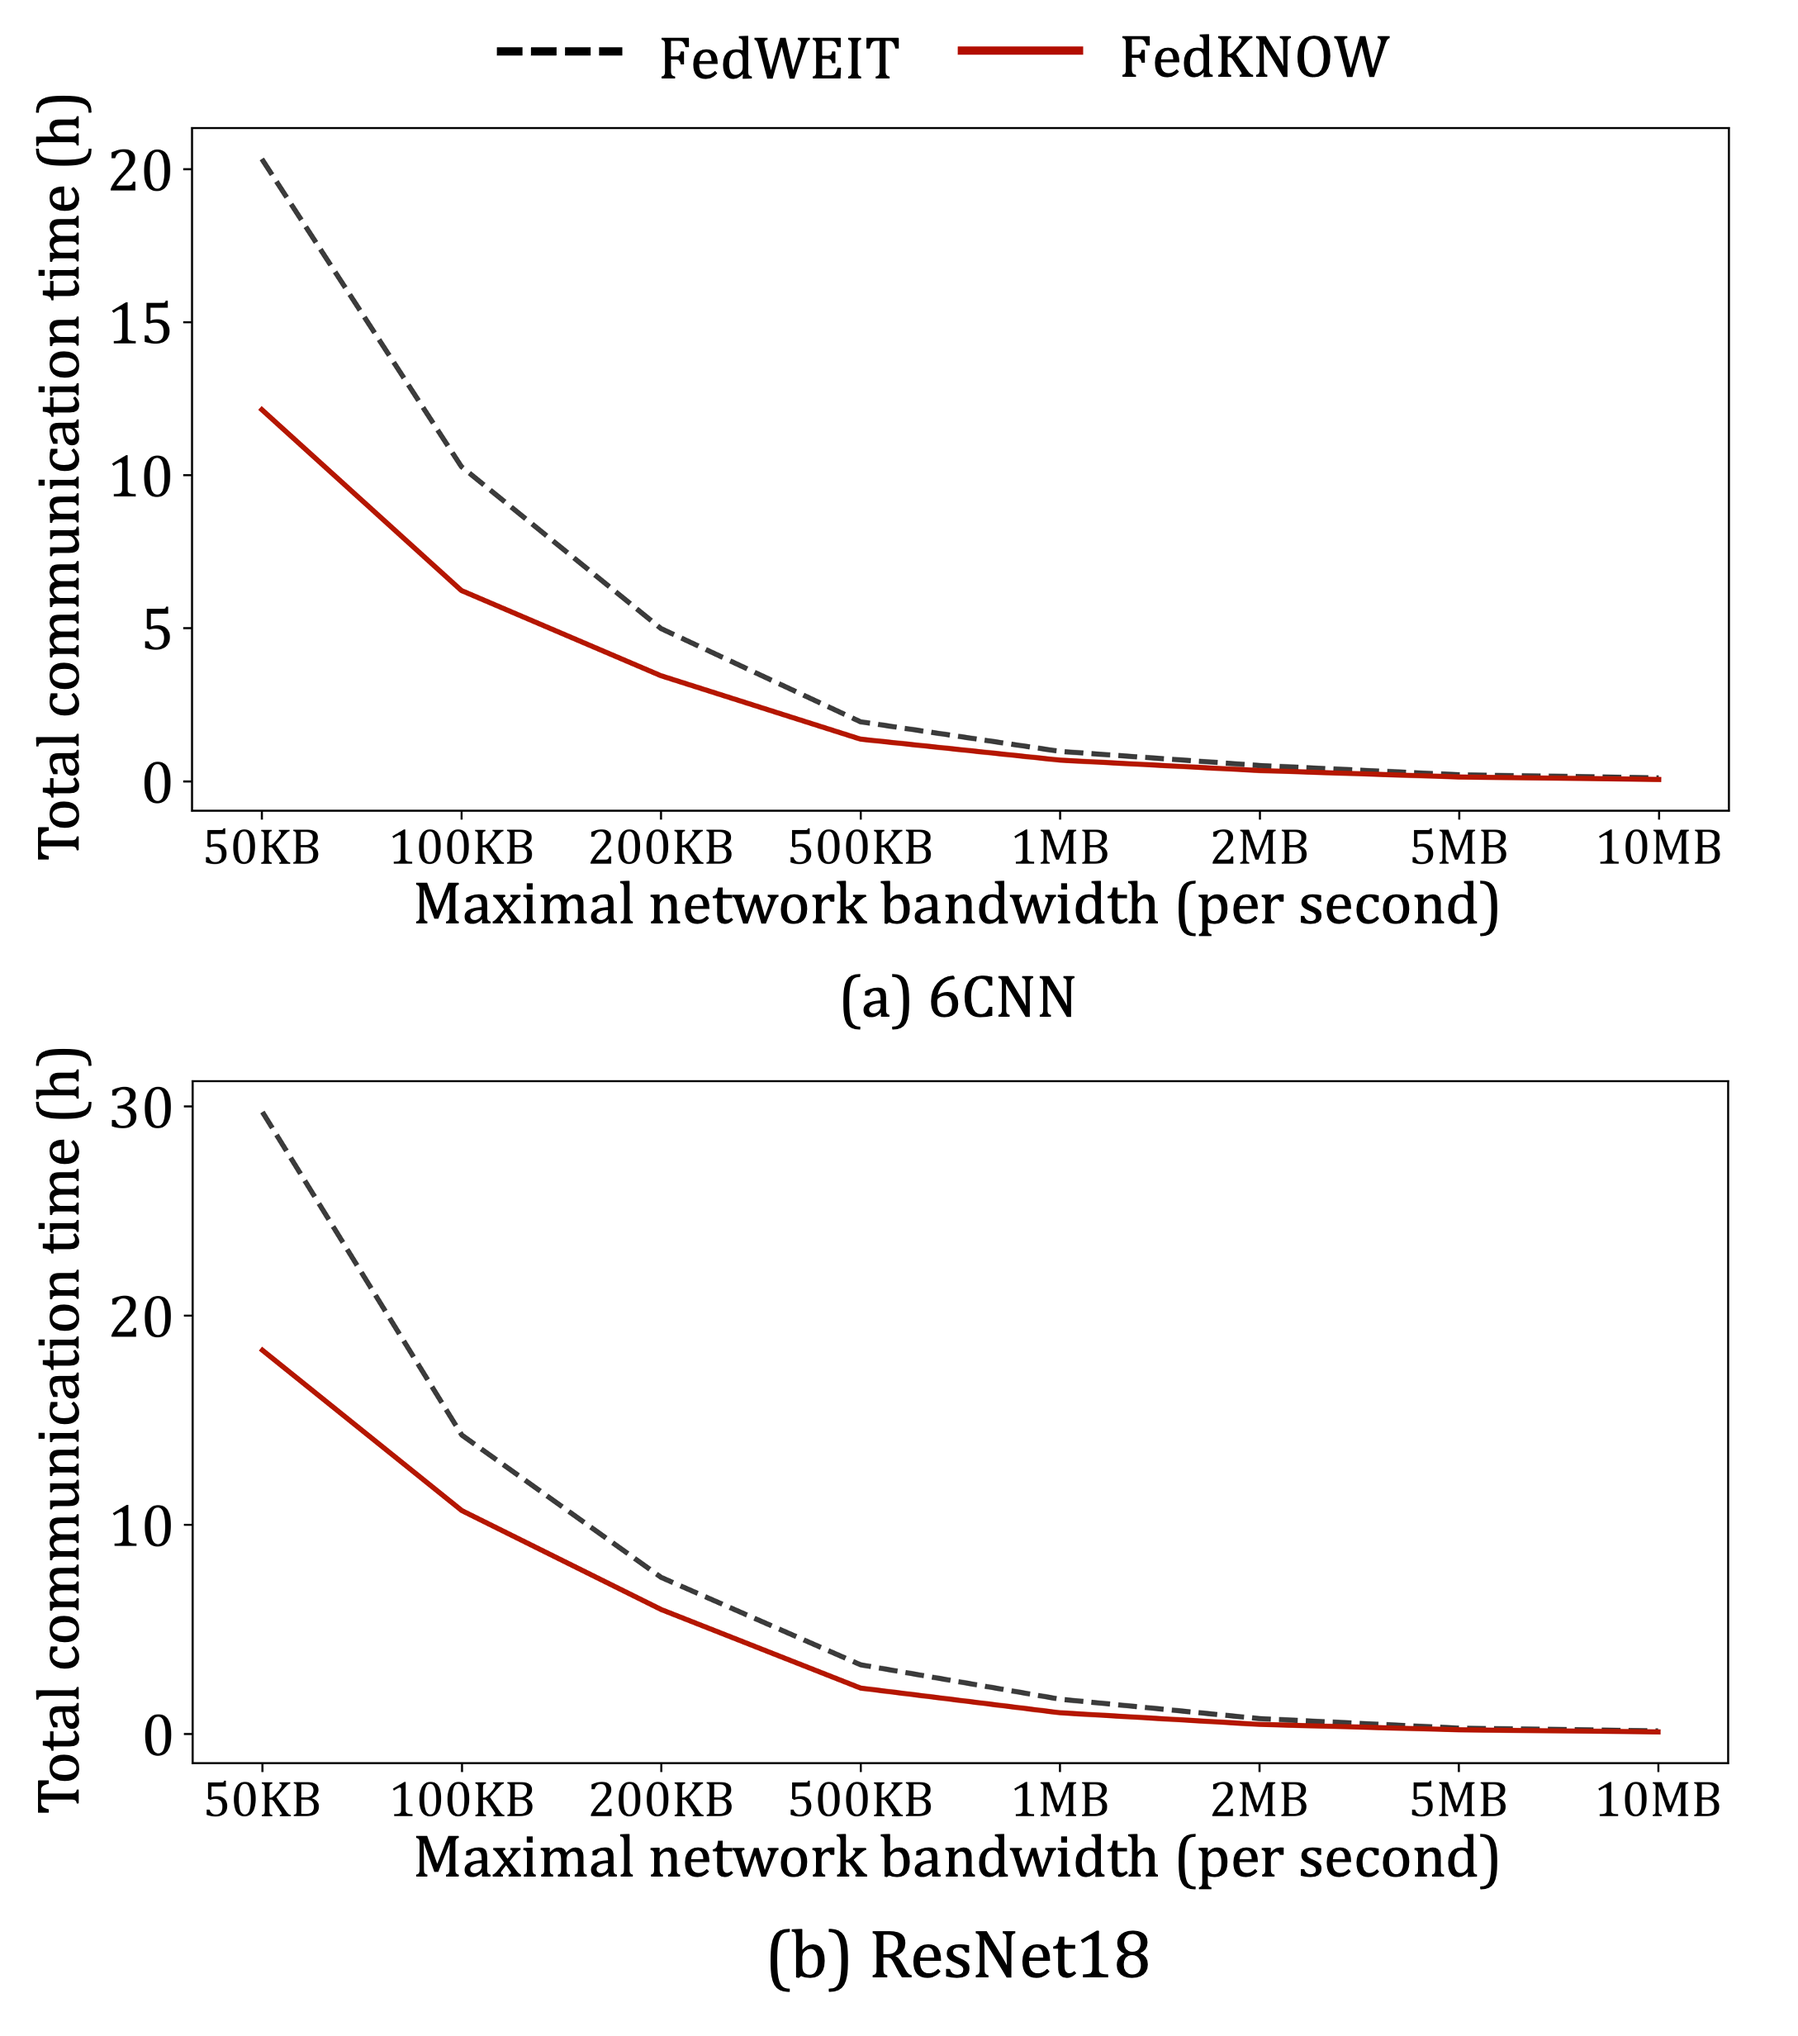
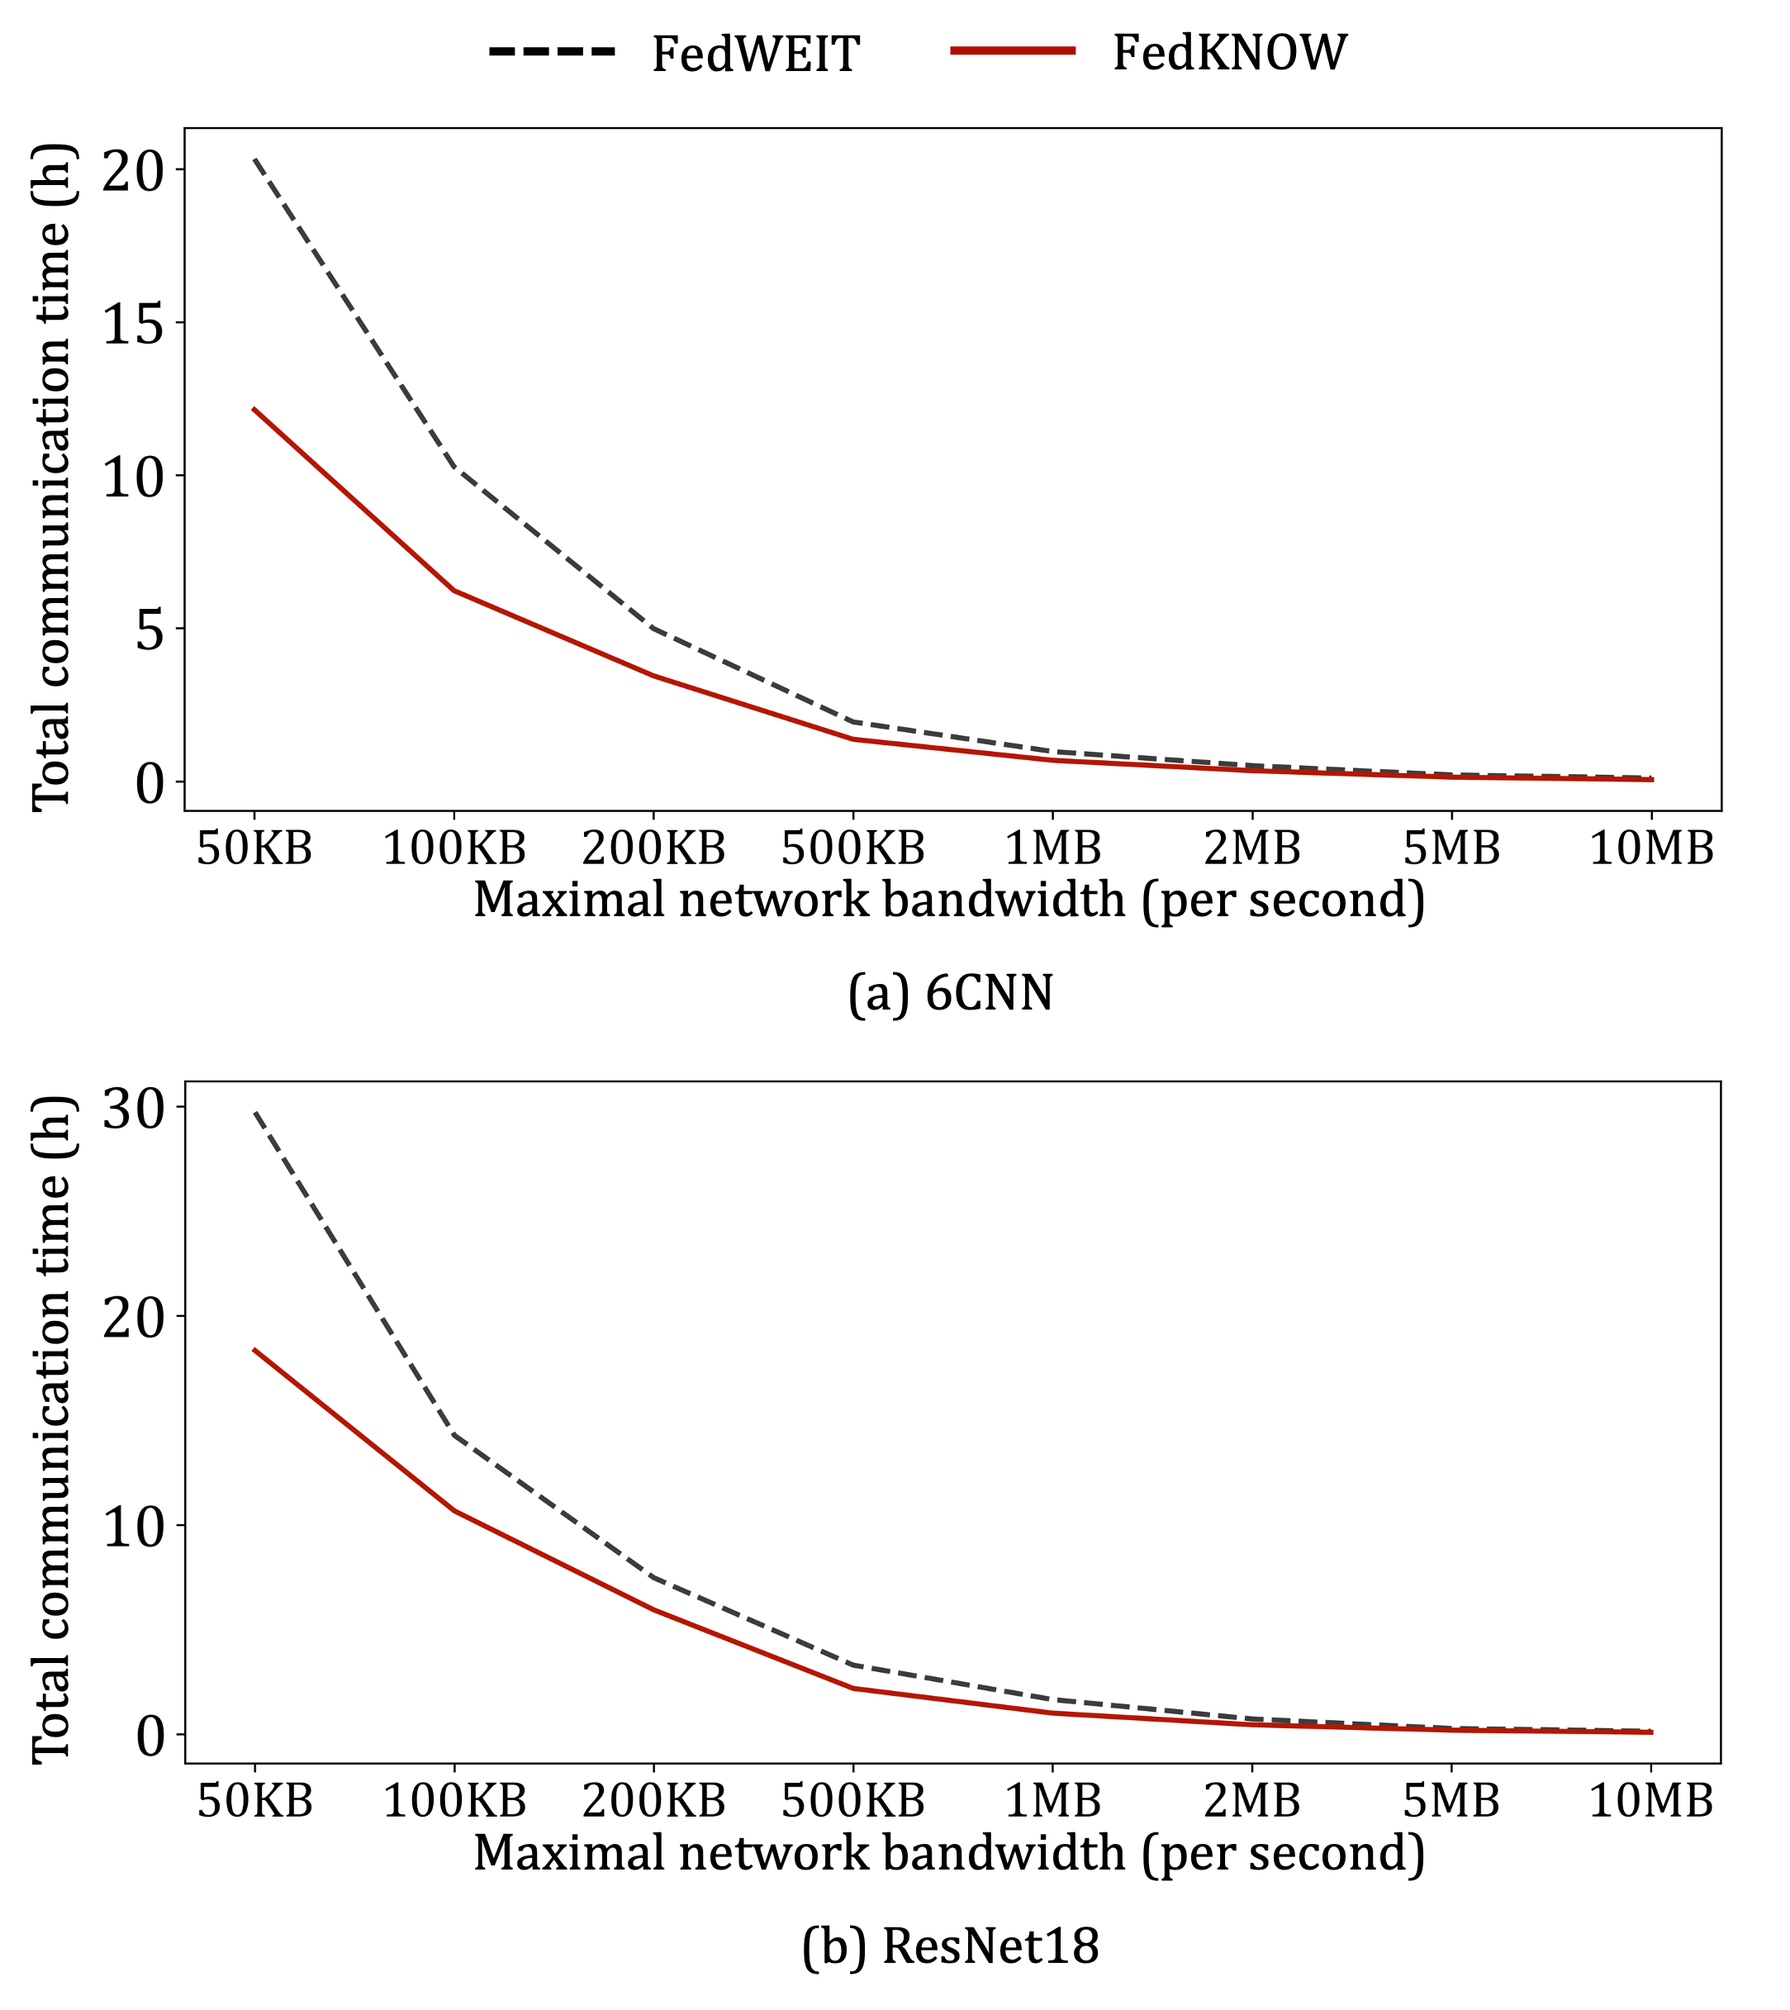
update the readme

diff --git a/README_zh-CN.md b/README_zh-CN.md
@@ -208,9 +208,13 @@
 2. **Experiment result**
 
     - **算法在最大带宽为1MB/s下在不同工作负载的通信时间(x axis for dataset and y axis for communication time)**
-        ![在这里插入图片描述](https://github.com/LINC-BIT/FedKNOW/blob/main/Experiment%20images/difctime.png)
+         
+        <img src="https://github.com/LINC-BIT/FedKNOW/blob/main/Experiment%20images/difctime.png" width="50%">
+        
     - **算法在不同网络带宽的总通信时间(x axis for bandwidth and y axis for communication time)**
-        ![在这里插入图片描述](https://github.com/LINC-BIT/FedKNOW/blob/main/Experiment%20images/difbandwidth.png)
+        
+        <img src="https://github.com/LINC-BIT/FedKNOW/blob/main/Experiment%20images/difbandwidth.png" width="50%">
+        
 ### 4.3 大规模测试
 1. **Experiment code**
 
@@ -223,9 +227,13 @@
 2. **Experiment result**
 
     - **算法在50个客户端以及100个客户端的下的准确率**(x axis for task and y axis for accuracy)
-        ![在这里插入图片描述](https://github.com/LINC-BIT/FedKNOW/blob/main/Experiment%20images/bigscale_acc.png)
+        
+        <img src="https://github.com/LINC-BIT/FedKNOW/blob/main/Experiment%20images/bigscale_acc.png" width="50%">
+        
     - **算法在50个客户端以及100个客户端的下的平均遗忘率**(x axis for task and y axis for average forgetting rate)
-        ![在这里插入图片描述](https://github.com/LINC-BIT/FedKNOW/blob/main/Experiment%20images/bigscale_fr.png)
+        
+        <img src="https://github.com/LINC-BIT/FedKNOW/blob/main/Experiment%20images/bigscale_fr.png" width="50%">
+        
 ### 4.4 多任务测试
 1. **Experiment code**
 
@@ -236,11 +244,16 @@
 2. **Experiment result**
 
     - **算法在80个任务的平均准确率**(x axis for task and y axis for accuracy)
-        ![在这里插入图片描述](https://github.com/LINC-BIT/FedKNOW/blob/main/Experiment%20images/moretask_acc.png)
+        
+        <img src="https://github.com/LINC-BIT/FedKNOW/blob/main/Experiment%20images/moretask_acc.png" width="50%">
+        
     - **算法在80个任务的平均遗忘率**(x axis for task and y axis for average forgetting rate)
-        ![在这里插入图片描述](https://github.com/LINC-BIT/FedKNOW/blob/main/Experiment%20images/moretask_fr.png)
+        
+        <img src="https://github.com/LINC-BIT/FedKNOW/blob/main/Experiment%20images/moretask_fr.png" width="50%">
+        
     - **算法在80个任务的任务时间**(x axis for task and y axis for current task time)
-        ![在这里插入图片描述](https://github.com/LINC-BIT/FedKNOW/blob/main/Experiment%20images/moretask_time.png)
+        
+        <img src="https://github.com/LINC-BIT/FedKNOW/blob/main/Experiment%20images/moretask_time.png" width="50%">
 
 ### 4.5 参数存储比例测试
 1. **Experiment code**
@@ -255,9 +268,13 @@
 2. **Experiment result**
 
     - **算法使用不同存储比例时准确率**(x axis for task and y axis for accuracy)
-        ![在这里插入图片描述](https://github.com/LINC-BIT/FedKNOW/blob/main/Experiment%20images/difporpotion_acc.png)
+         
+        <img src="https://github.com/LINC-BIT/FedKNOW/blob/main/Experiment%20images/difporpotion_acc.png" width="50%">
+        
     - **算法使用不同存储比例时任务时间**(x axis for task and y axis for current task time)
-        ![在这里插入图片描述](https://github.com/LINC-BIT/FedKNOW/blob/main/Experiment%20images/difporpotion_time.png)
+        
+        <img src="https://github.com/LINC-BIT/FedKNOW/blob/main/Experiment%20images/difporpotion_time.png" width="50%">
+    
     
 ### 4.6 适用性测试
 1. **Experiment code**
